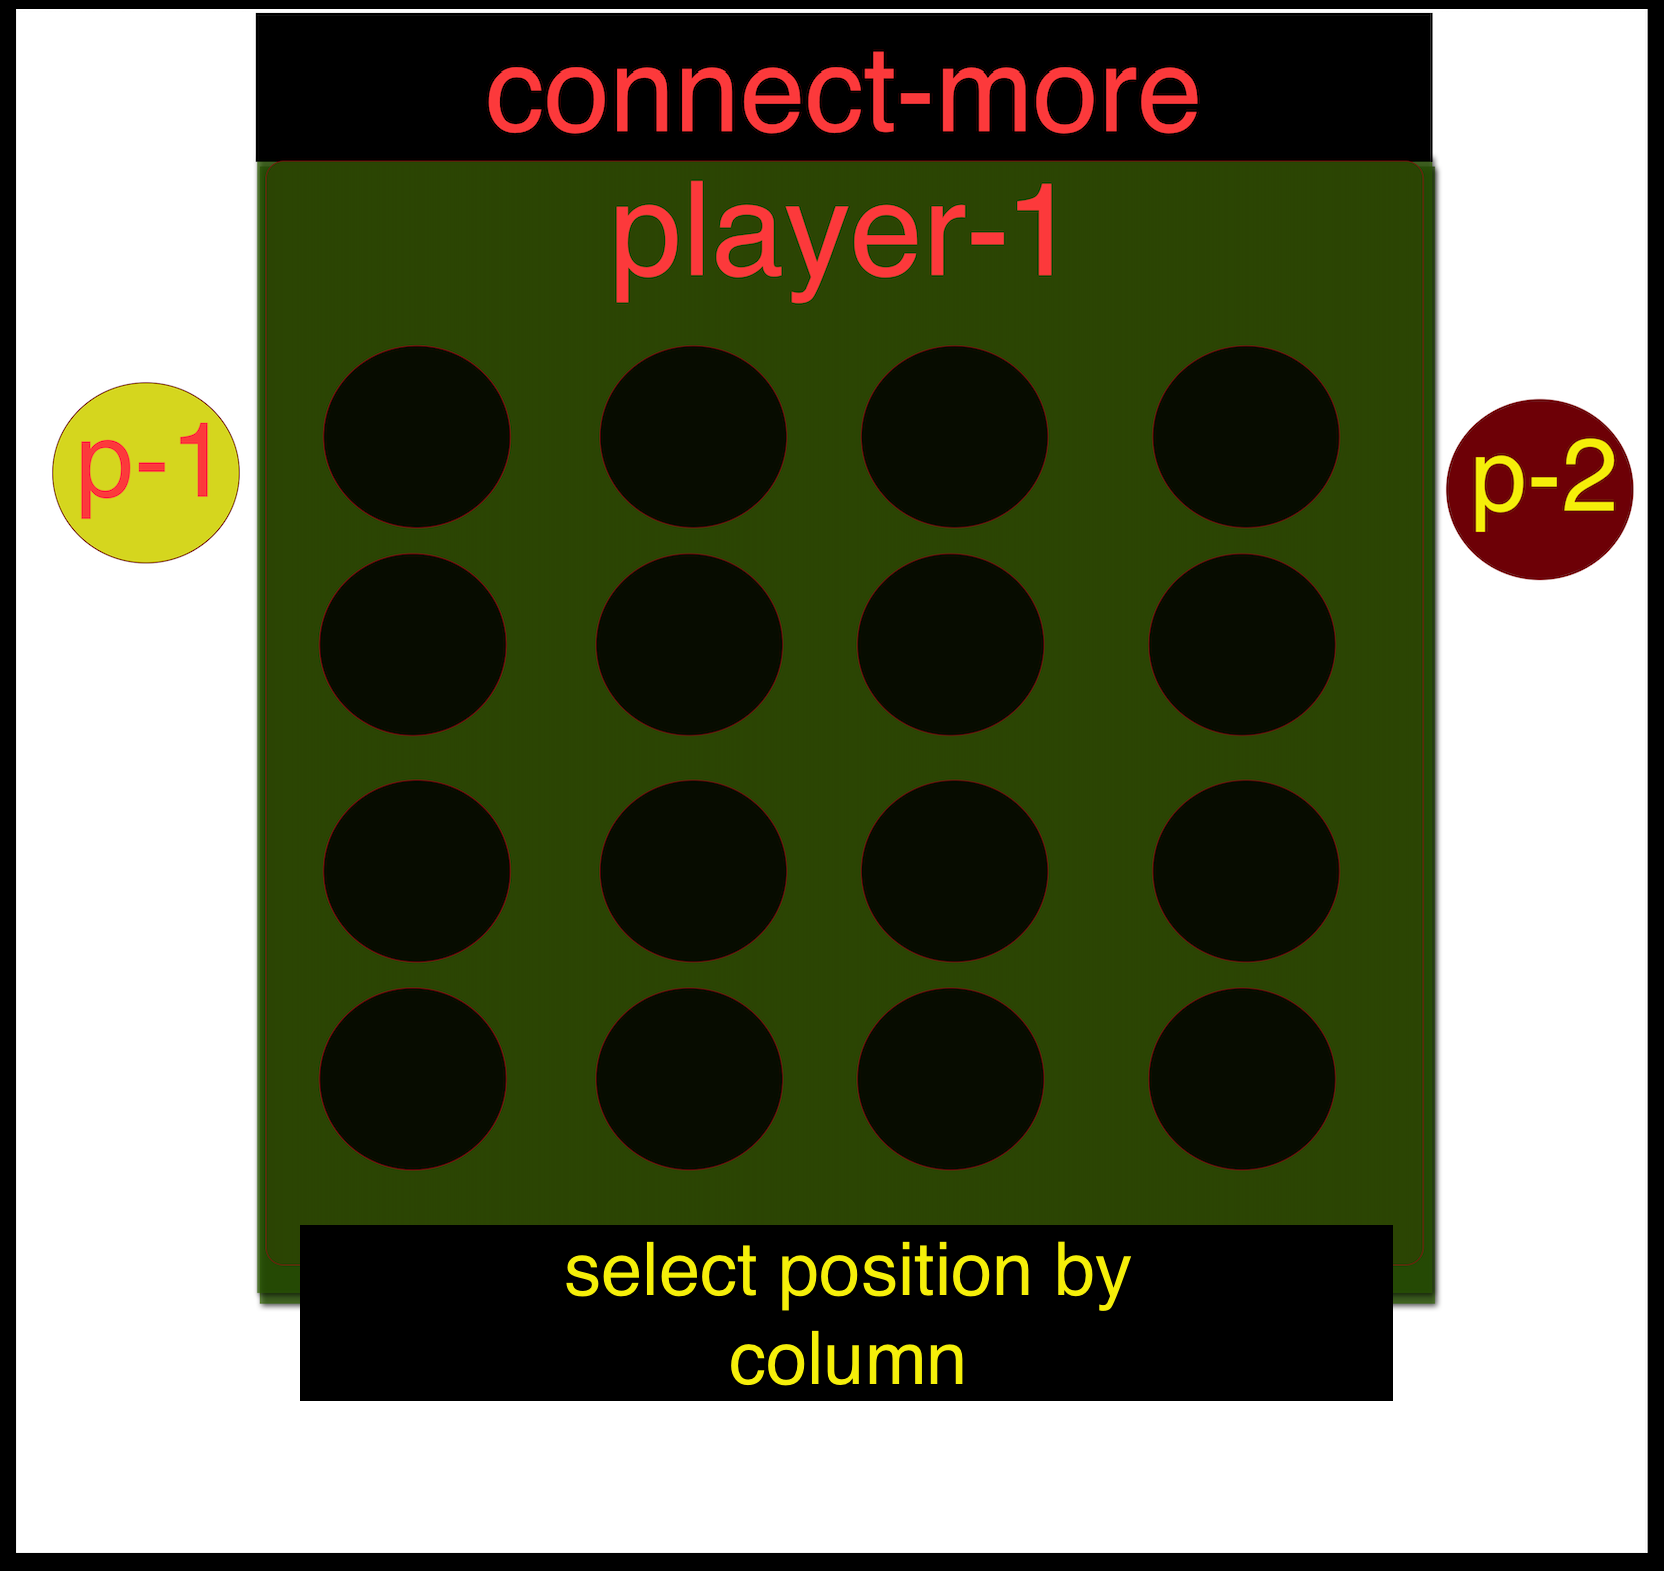
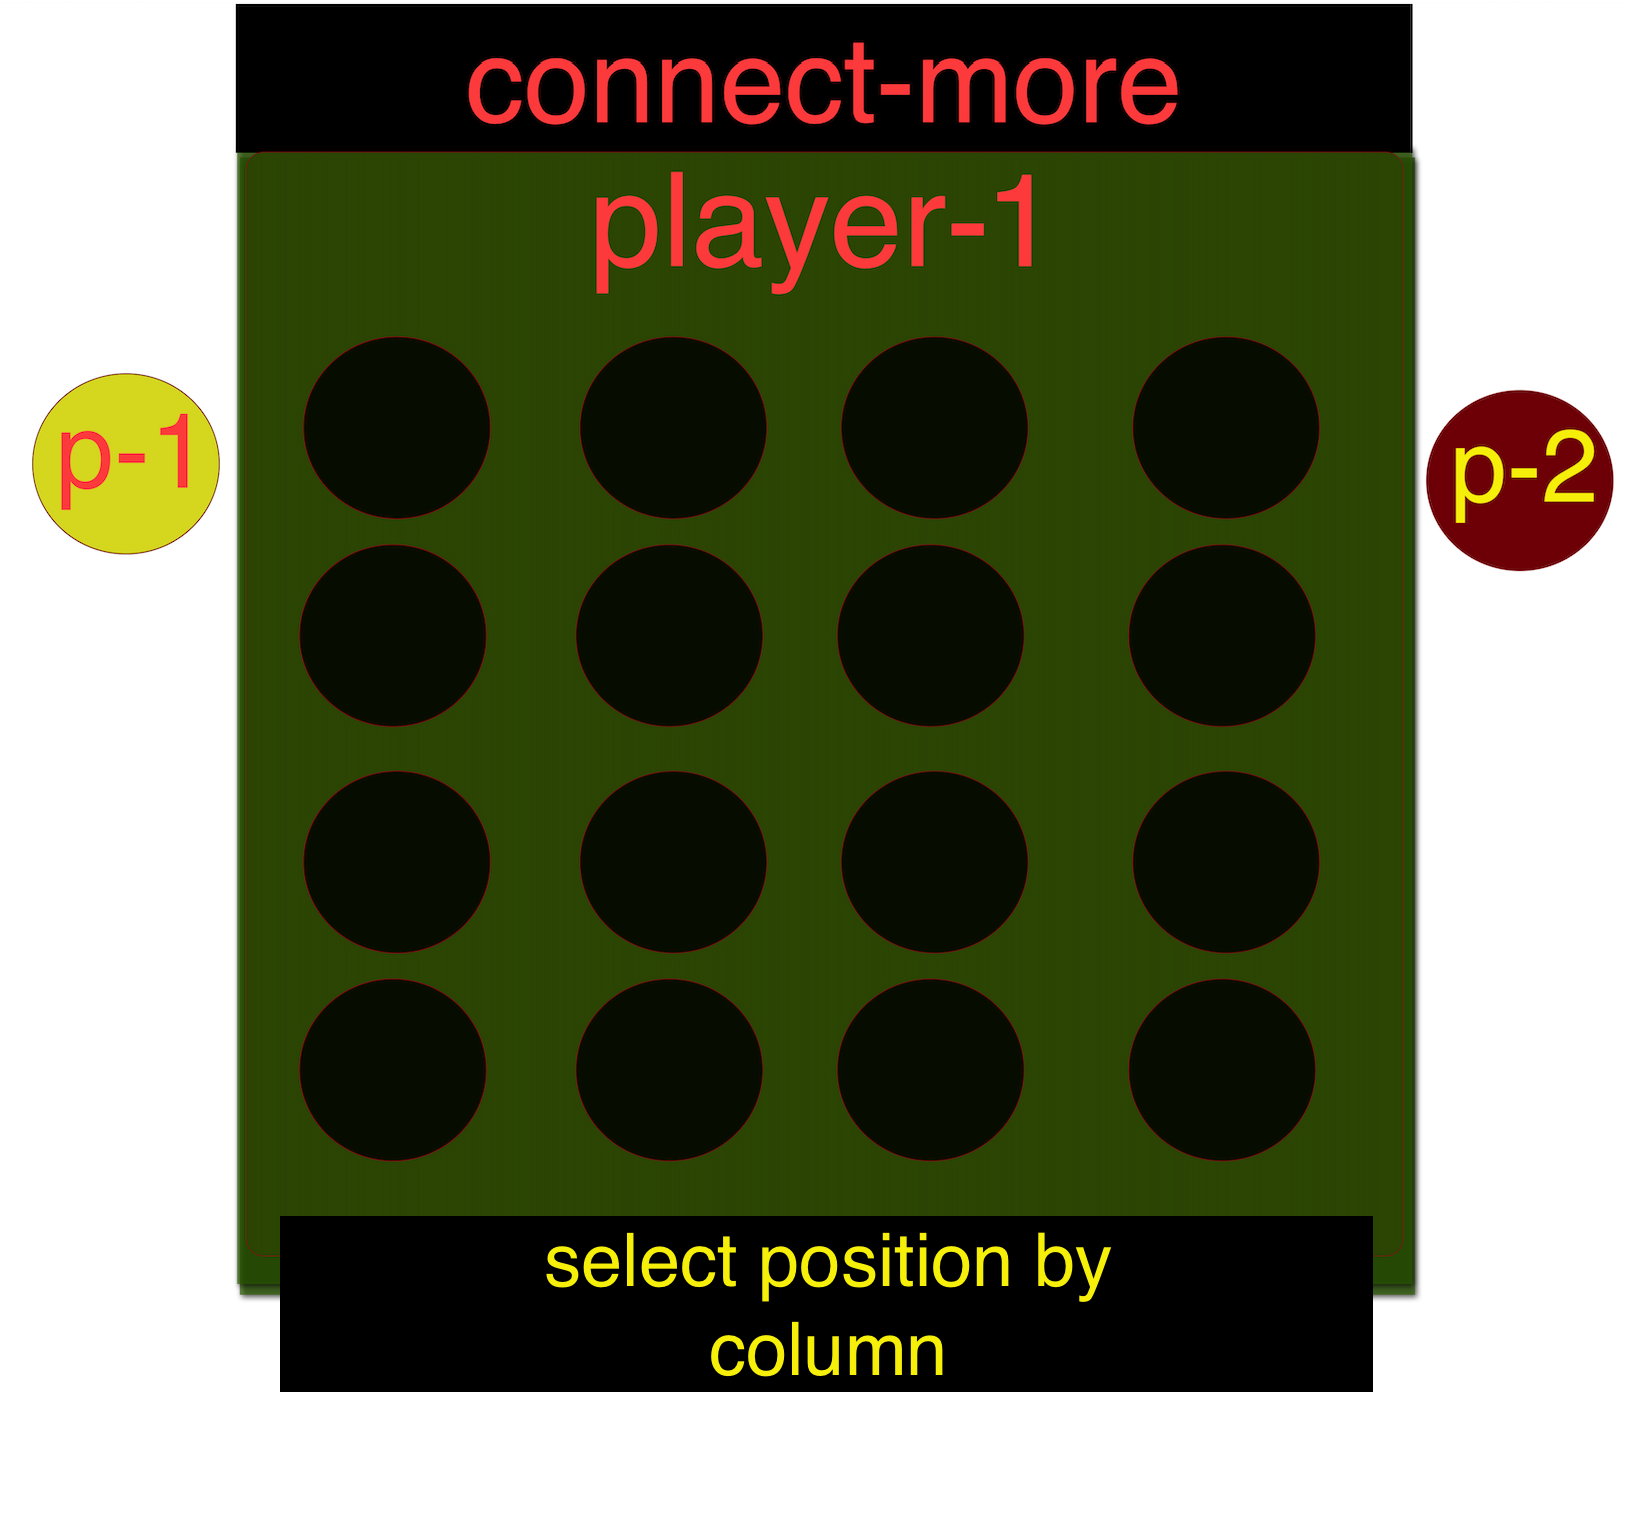
fixed .md files

diff --git a/css/style.css b/css/style.css
@@ -1,77 +1,91 @@
- @font-face {
-  font-family: 'Phosphate';
-  src: url('../assets/fonts/Phosphate.ttc'); /* IE9 Compat Modes */
+@font-face {
+  font-family: Phosphate;
+  src: url(../assets/fonts/Phosphate.ttc); /* IE9 Compat Modes */
 }
- @font-face {
-  font-family: 'Chalkduster';
-  src: url('../assets/fonts/chalkduster.ttc'); /* IE9 Compat Modes */
+@font-face {
+  font-family: Chalkduster;
+  src: url(../assets/fonts/Chalkduster.ttf); /* IE9 Compat Modes */
 }
 
 * {
   padding: 0;
   margin: 0;
   text-align: center;
-  background-color: #a1b077;
+  background-color: #ccb714;
   background-image: url("../assets/images/always-grey.png");
-/* This is mostly intended for prototyping; please download the pattern and re-host for production environments. Thank you! */
-}
-
-
-div .currentPlayer {
-  background: none;
 }
 
 
 h1 {
-    /* margin-top: 0.5em; */
-    font-size: 3rem;
-    background: rgba(54, 54, 118, 0.2);
-    border: 4px solid rgba(38, 14, 106, 0.423);
-    border-radius: 20px;
-    box-shadow: inset 2px 1px 40px black;
-    margin: 3px 5px;
-    padding: 5px
+  /* margin-top: 0.5em; */
+  font-size: 3rem;
+  background: rgba(54, 54, 118, 0.2);
+  border: 4px solid rgba(114, 16, 16, 0.809);
+  border-radius: 20px;
+  box-shadow: inset 2px -1px 60px rgba(0, 0, 0, 0.631), 2px 1px 6px black,
+    -1px -1px 16px black;
+  margin: 3px 5px;
+  padding: 5px;
+  margin-bottom: 20px;
 }
-h3, .textA .turnStatus {
+h3,
+.textA .turnStatus {
   background: none;
 }
 .textA {
-    font-family: Phosphate, Impact, Haettenschweiler, 'Arial Narrow Bold', sans-serif;
-    text-shadow: 3px 2px 1px rgba(10, 38, 114, 0.5),0 0 3px white , -1px 1px 6px rgba(0, 0, 0, 0.671);
-    color: rgba(241, 247, 247, 0.754);
+  font-family: Phosphate, Impact, Haettenschweiler, "Arial Narrow Bold",
+    sans-serif;
+  text-shadow: 1px 2px 4px black, 0 0 5px rgba(255, 255, 255, 0.529),
+    -1px 1px 2px rgba(2, 0, 0, 0.343), -1px 0 8px rgba(0, 0, 0, 0.4);
+  color: rgba(99, 30, 30, 0.775);
 }
-
+h1.textA {
+  background: none;
+}
+span {
+  background: none;
+}
 .container {
-  background: rgba(0, 0, 0, 0);
+  background: rgba(3, 7, 65, 0.316);
   display: flex;
   align-items: center;
   justify-content: center;
   box-shadow: inset 0 0 40px black;
+  margin: 0;
+  padding: 0;
   min-height: 100vh;
+  max-height: 100vh;
+  min-width: 100vw;
+  max-width: 100vw;
+}
+div.container {
+  background: none;
 }
 .player {
   font-family: chalkduster;
   color: rgba(148, 180, 33, 0.185);
   font-size: 100px;
-  text-shadow: -1px 1px 4px rgba(10, 0, 0, 0.233), 1px 2px 1px rgba(255, 255, 255, 0.644);
+  text-shadow: -1px 1px 4px rgba(10, 0, 0, 0.233),
+    1px 2px 1px rgba(255, 255, 255, 0.644);
 }
 
 .board {
-  border: 8px solid rgba(235, 235, 235, 0.542);
+  border: 40px solid rgba(189, 180, 51, 0.707);
   border-radius: 20px;
-  box-shadow: 0 0 20px black, 1px 1px 3px black, inset 1px 1px 10px black;
-  padding: 1em;
+  box-shadow: -5px -5px 4px rgba(215, 216, 135, 0.638),
+    5px 5px 3px rgba(33, 31, 1, 0.398), inset 1px 1px 10px black;
+  padding: 1.1em;
   margin: 1em 3em;
   display: flex;
   flex-wrap: wrap;
-  height: 320px;
-  width: 320px;
-  background: rgb(54, 54, 118);
+  height: 270px;
+  width: 327px;
+  background: rgba(5, 39, 127, 0.805);
 }
 .board div {
-  height: 4px;
-  width: 3px;
-  margin:10px;
+  height: 9px;
+  width: 9px;
+  margin: 7px;
   padding: 10px;
   border-radius: 20px;
 }
@@ -80,27 +94,54 @@ h3, .textA .turnStatus {
   border: 1px solid white;
   box-shadow: inset 2px 1px 10px black;
 }
+/* div .taken {
+  display: none;
+} */
 .taken {
   /* display:none; */
-  background:red !important
+  background: red !important;
 }
+
 .turnStatus {
-    color: #b4cc177c;
-    font-size: 30px;
+  color: #b4cc177c;
+  font-size: 30px;
 }
 .player-one {
   color: red;
+  border: 1px solid white;
+  box-shadow: inset 2px 1px 10px black;
 }
-.player-two {
-  color: rgb(0, 0, 0);
-}
-.restart {
+/* div.player-one.taken {
   background: red;
-  width: 200px;
-  height: 200px;
+} */
+.player-two {
+  background-color: rgb(0, 0, 0);
+  border: 1px solid white;
+  box-shadow: inset 2px 1px 10px black;
+}
+/* div .player-two .taken {
+  background: yellow;
+} */
+div.taken {
+  display: none;
+}
+
+.restart {
+  background: rgba(230, 235, 220, 0.878);
+  border: 10px solid #001c97d7;
+  border-radius: 40px;
+  box-shadow: 5px 20px 30px rgba(0, 0, 0, 0.535),
+              15px 10px 30px rgba(0, 0, 0, 0.535), 
+              1px 1px 3px rgba(255, 255, 255, 0.521),
+              -1px 1px 3px rgb(7, 1, 1), 
+              inset 0 1px 15px black;
+  width: 60vw;
+  height: 49vh;
+  margin: 18% 19%;
   position: fixed;
-  top: 100px;
-  left: 100px;
+  top: 10%;
+  left: 0;
+  right: 0;
   display: none;
   justify-content: center;
   align-items: center;

diff --git a/index.html b/index.html
@@ -1,27 +1,26 @@
 <!DOCTYPE html>
 <html lang="en">
-<head>
-    <meta charset="UTF-8">
-    <meta http-equiv="X-UA-Compatible" content="IE=edge">
-    <meta name="viewport" content="width=device-width, initial-scale=0.62">
-    <title>Document</title>
-    <link rel="stylesheet" href="css/style.css">
-</head>
-<body>
-    <main>
-        <div>
-            <div class="container">
+    <head>
+        <link rel="shortcut icon" href="assets/images/connect.png" type="image/x-icon">
+        <meta charset="UTF-8">
+        <meta http-equiv="X-UA-Compatible" content="IE=edge">
+        <meta name="viewport" content="width=device-width, initial-scale=0.75">
+        <title>connectMORE</title>
+        <link rel="stylesheet" href="css/style.css">
+    </head>
+    <body>
+        <main>
+            <div class="container"> 
                 <div class="currentPlayer">
                     <h1 class="textA">CONNECT-MORE</h1>
                     <h3 class="textA turnStatus">player <br><span class="player"> </span> <br>take your turn</h3>
-                        <div class="board"></div>
-
-                         <div class="restart">
-                        <button class="playAgain">play again</button>
-                    </div>
+                    <div class="board"></div>            
                 </div> 
+                <div class="restart">
+                    <button class="playAgain">play again</button>
+                </div>
             </div>
-    </main>
-    <script src="js/script.js"></script>
-</body>
+        </main>
+        <script src="js/script.js"></script>
+    </body>
 </html>

diff --git a/js/script.js b/js/script.js
@@ -140,19 +140,20 @@ function checkWon() {
   for (let y = 0; y < winningArray.length; y++) {
     let square = winningArray[y];
     if (square.every((q) => squares[q].classList.contains("player-one"))) {
-      setTimeout(() => alert("player one(red) wins "), 200);
+      // setTimeout(() => alert("player one(red) wins "), 200);
       setTimeout(() => (restart.style.display = "flex"), 500);
     } else if (
       square.every((q) => squares[q].classList.contains("player-two"))
     ) {
-      setTimeout(() => alert("player two(yellow) wins"), 200);
+      // setTimeout(() => alert("player two(yellow) wins"), 200);
       setTimeout(() => (restart.style.display = "flex"), 500);
     }
   }
+  console.log(squares);
 }
 
 function reset() {
-  board.innerHTML = "";
+  board.innerText = "";
   loadDOM();
   restart.style.display = "none";
 }

diff --git a/README.md b/README.md
@@ -2,34 +2,34 @@
 
 ## uuser prompted
 
-![s5](player-prompt.png)
+![s5](assets/images/player-prompt.png)
 
 ## player takes their turn
 
-![s5](opening.png)  
+![s5](assets/images/opening.png)  
 
 ### after a back and forth of turns
 
- ![s5](win.png)  
+ ![s5](assets/images/win.png)  
 
 #### ...if it's a tie
 
- ![s5](no-win.png)
+ ![s5](assets/images/no-win.png)
 
 ### if I have time
 
 ### applying a conditional statement to only allow a turn upon answering the quiz question correctly
 
-| ![s5](welcome.png)
+| ![s5](assets/images/welcome.png)
 
 ### I ca do this with the quizApi.io
 
-![s5](scene-two.png)
+![s5](assets/images/scene-two.png)
 
-![s5](scene-three.png)
+![s5](assets/images/scene-three.png)
 
-### later I think applying an option to toggle the restricted turns for an "easy mode" would be good
+## later I think applying an option to toggle the restricted turns for an "easy mode" would be good
 
-### perhaps also a record of wins, losses and other stats per game player would add a nice touch
+## perhaps also a record of wins, losses and other stats per game player would add a nice touch
 
-### additionally I am considering an option to modify the row/column amount for longer or shorter game configuration
+## additionally I am considering an option to modify the row/column amount for longer or shorter game configuration

diff --git a/wireframe.md b/wireframe.md
@@ -1,32 +1,29 @@
-# **** TRIVIAL-CONNECT
+# Trivia-Connect
 
-## uuser prompted
+## user prompted
 
-![s5](assets/player-prompt.png)
+| ![s5](assets/images/player-prompt.png) | ![s5](assets/images/opening.png) |
+| -------------------------------------- | -------------------------------- |
 
-## player takes their turn
+### player takes their turn | after a back and forth of turns
 
-![s5](assets/opening.png)  
+![s5](assets/images/win.png)
 
-### after a back and forth of turns
+### ...if it's a tie
 
- ![s5](assets/win.png)  
+![s5](assets/images/no-win.png)
 
-#### ...if it's a tie
-
- ![s5](assets/no-win.png)
+![s5](assets/images/welcome.png)
 
 ### if I have time
 
 ### applying a conditional statement to only allow a turn upon answering the quiz question correctly
 
-| ![s5](assets/welcome.png)
+![s5](assets/images/scene-two.png)
 
 ### I ca do this with the quizApi.io
 
-![s5](assets/scene-two.png)
-
-![s5](assets/scene-three.png)
+![s5](assets/images/scene-three.png)
 
 ### later I think applying an option to toggle the restricted turns for an "easy mode" would be good
 
